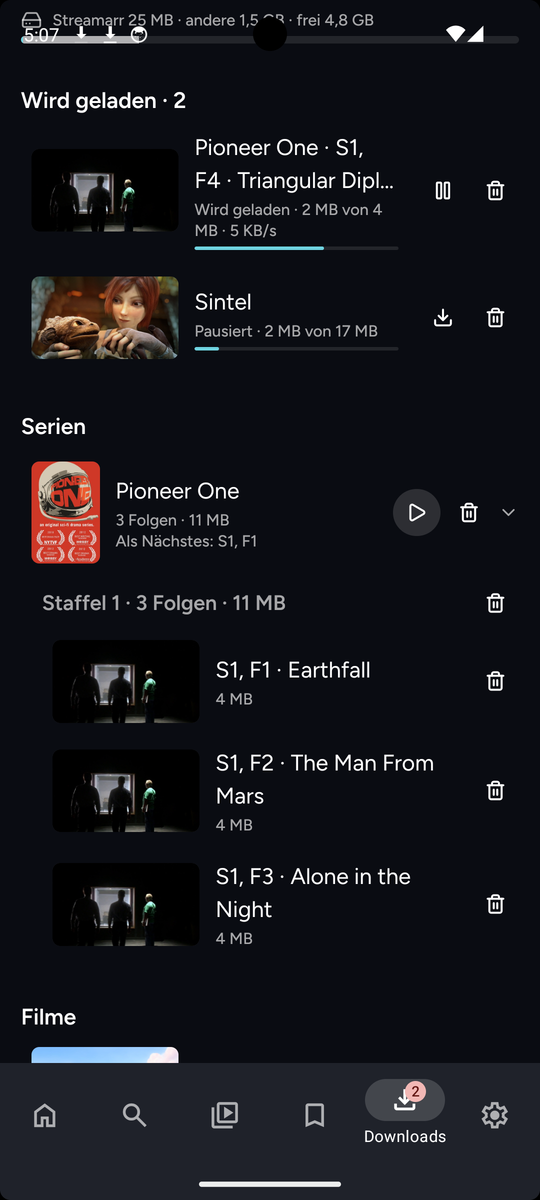
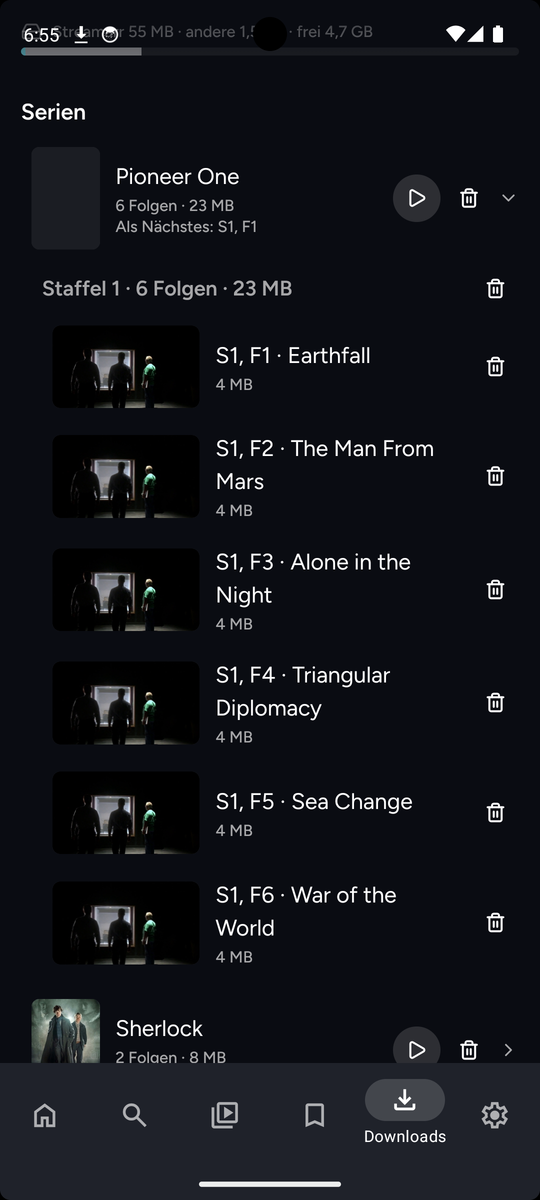
docs(client): DL-C2 nits — status bar scrim re-take, iPad removing row
phone-05b re-taken on Streamarr_Phone_DL2 with the scrim (8b67f878);
ipad-06b shows a slow removal greyed with "Wird entfernt…".

diff --git a/docs/client/JOURNAL.md b/docs/client/JOURNAL.md
@@ -188,7 +188,7 @@ Append-only. One line per task outcome; details in `journal/<TASK-ID>.md`.
 - DL-S · done · offline downloads server: candidates/season packs/similarity plan with offline playability (native or VLC direct, reused version ranking), async prepare with copy-only fallback + hard check, resumable /api/v1/offline capability (Range/ETag/If-Range, pinned transfer sessions), records + allowDownloads/limits, priority below live streams (connection share, low priority, no article cache, throttle), occurredAt, web admin, Dev World RAR pack/mislabeled/offline faults; Server 1882/1895 (13 known ffmpeg), web 329/329, live 27/27, Dev World published → journal/DL-S.md
 - DL-C1 · partial · client download core: API freeze 9fa5d2a3 (types, MMKV store per server+viewer, manager prepare→long-poll→engine→verify→complete with 410/429/403/409/disk-full/Wi-Fi/validator handling, kill-safe reconciliation), metadata+artwork snapshot, connectivity + /offline shell, DownloadsLibrary, player local mode (expo-video/VLC, local tracks, newer resume, offline up-next), app-wide progress sync with occurredAt, sign-out/remove prompt; jest 2502/2502; phase B device verification pending DL-N integration → journal/DL-C1.md
 - DL-N · done · own Expo module offline-downloads (Android UIDT job/FGS, iOS background URLSession; Range+If-Range resume, native queue, Wi-Fi only) behind src/downloads/engine, verified on phone 14, Google TV 13, Android TV 14, iPhone sim → journal/DL-N.md
-- DL-C2 · done · download sheet (episode/movie, season pack, rest similar, each yourself, fit verdicts, stream-only line), Downloads tab/rail + badge, phone Library tab, detail defaults/markers/progress, settings + offline-shell section, TV D-pad; fix round 1 (C1-09…C1-26); phase B on Android phone, Android TV, iPhone and iPad sims against Dev World 39305 (43 screenshots, 8 device bugs fixed); open: iPhone "Mehr" tab, iOS sheet footer not pinned; typecheck/lint 0, sign-in waits read as such; plan language note, held-back downloads read as on hold; DL-C1 round-1 API (locked, unknown space, per-record re-renders), offline shell → play re-checked on TV + phone; VLC versions read as playable in the sheet; DL-S round 3 merged; blocked selections without a ready mark, failed row + other version on the phone; plan 1b re-checked live, TV rest-similar re-taken; DL-N round-1 builds on all four devices (missing storage, notification Pause/link, Task-Manager stop); DL-S rounds 3+4 merged; removing state greyed in place, re-download blocked (8c37f4e4); DL-N round 2 merged; removal pipeline merged, removing e2e via the core; jest 278/2880 green; final pass: 92-shot set on phone, TV (D-pad), iPhone, iPad (docs/client/screenshots/DL-C2/final), fixes dd1afc1c (state named once), 083dfc2b (C2-09), c82f08f9+07ddb405 (C2-08 via lockOf), 23851f79 (movie title while preparing), iOS keep-bytes verified on 5410255b, merged fb/downloads f6cf1ba7, jest 293/2979 green → journal/DL-C2.md
+- DL-C2 · done · download sheet (episode/movie, season pack, rest similar, each yourself, fit verdicts, stream-only line), Downloads tab/rail + badge, phone Library tab, detail defaults/markers/progress, settings + offline-shell section, TV D-pad; fix round 1 (C1-09…C1-26); phase B on Android phone, Android TV, iPhone and iPad sims against Dev World 39305 (43 screenshots, 8 device bugs fixed); open: iPhone "Mehr" tab, iOS sheet footer not pinned; typecheck/lint 0, sign-in waits read as such; plan language note, held-back downloads read as on hold; DL-C1 round-1 API (locked, unknown space, per-record re-renders), offline shell → play re-checked on TV + phone; VLC versions read as playable in the sheet; DL-S round 3 merged; blocked selections without a ready mark, failed row + other version on the phone; plan 1b re-checked live, TV rest-similar re-taken; DL-N round-1 builds on all four devices (missing storage, notification Pause/link, Task-Manager stop); DL-S rounds 3+4 merged; removing state greyed in place, re-download blocked (8c37f4e4); DL-N round 2 merged; removal pipeline merged, removing e2e via the core; jest 278/2880 green; final pass: 92-shot set on phone, TV (D-pad), iPhone, iPad (docs/client/screenshots/DL-C2/final), fixes dd1afc1c (state named once), 083dfc2b (C2-09), c82f08f9+07ddb405 (C2-08 via lockOf), 23851f79 (movie title while preparing), iOS keep-bytes verified on 5410255b, merged fb/downloads f6cf1ba7, jest 293/2979 green; nits: Android phone status-bar scrim on Downloads, My List, Library, offline shell (8b67f878), phone-05b re-taken, iPad removing row added, jest 294/2985 → journal/DL-C2.md
 - DL-S · fix round 1 · done · all 17 verifier findings (V1-01…V1-17): revocable file access (per-download/viewer access generations, 2 s cut-off, age gate per request), security sign-out rotates file URLs (410 download_revoked, renew issues a new URL), idempotent prepares (unique key), transfers never evict playback, preparation in the download share + 1 resolve slot kept, refundable throttle, completion dedupe, preconditions, CORS, log redaction; 34 new tests fail on the pre-fix tree; Server 1933/1947 (13 known ffmpeg + 1 tunnel flake), web 329/329, live 27/27 + 16/16, Dev World re-published → journal/DL-S.md
 - DL-S · fix round 1b · done · similarity plan follows the picked version's language (same primary language or both untagged; viewer's language only as fallback with language_differs), recommendations unchanged; 4 new tests fail before; Server 1943/1957 (13 known ffmpeg + 1 tunnel load flake), live 28/28 + 16/16, Dev World re-published → journal/DL-S.md
 - DL-S · fix round 2 · done · security generation per viewer/record (preparing downloads publish revoked after a sign-out; capability answers 401 for signed-out callers), renewals serialized (download lock + write transaction + row revision: one URL for concurrent renewals, none surviving a racing sign-out), (viewer, device key, clientRef) unique index with a fixed migration, FIFO throttle with a stable bucket, background byte accounting (expiry ends transfers with a busy DB); 8 new tests fail on a48a0755; Server 1956/1970 (13 known ffmpeg + 1 load-timing, 3/3 alone), live 9/9 + 28/28 + 16/16, Dev World re-published → journal/DL-S.md

diff --git a/docs/client/journal/DL-C2.md b/docs/client/journal/DL-C2.md
@@ -527,15 +527,33 @@ matches the fb/downloads ddd27fd0 integration check.
 - 03: `ipad-03a-detail-progress-card-de|en`, `ipad-03b-downloads-running-badge-de|en`.
 - 04: `ipad-04a-detail-downloaded-season-geladen-de`, `ipad-04b-versions-on-device-first-de`.
 - 05: `ipad-05-downloads-grouped-storage-de`, `ipad-05-downloads-grouped-en`.
-- 06: `ipad-06-downloads-blocked-de`.
+- 06: `ipad-06-downloads-blocked-de`, `ipad-06b-downloads-removing-de`.
 - 07: `ipad-07a-offline-shell-de`, `ipad-07b-offline-play-local-file-de`.
 - 08: `ipad-08-settings-downloads-de`.
 
 **Not covered:**
 - `language_differs` (no Dev World fixture).
 - Android "allowed again keeps the bytes": the TV row went back to `downloading` but its bytes were not recorded.
-- iPad removing row (blocked shown).
 - iPhone/iPad offline local play starts at 0:00 where no local position exists (fresh install; expected).
+
+### Nits after the final pass (2026-11-07)
+
+- **Status bar overlap on the Android phone** (8b67f878). Scrolled content ran under the status bar on the Downloads
+  page: in `phone-05b` the storage line sat on the clock and icons. My List, the Library and the offline shell had the
+  same problem, since they only padded the top. Home and the detail page already draw the app's `StatusBarScrim`.
+  The new `StatusBarScrimLayer` (`src/shell/status-bar-scrim-layer.tsx`) lays the scrim over these four pages on
+  Android phones. Search and Settings have a native header on the phone and need nothing.
+  - iOS is left alone. The list stays the screen's first view so UIKit adopts it for the tab bar and the scroll-edge
+    effect, and a wrapper would break that (see the Home and Library comments).
+  - The large shell (tablet, TV, web) has no edge-to-edge page.
+  - Tests: `src/shell/__tests__/status-bar-scrim-layer.test.tsx` (Android phone layered; iOS phone and Android tablet
+    untouched) and a Downloads/Library case in `downloads-screen.test.tsx`.
+  - `phone-05b` re-taken on Streamarr_Phone_DL2 (build 5410255b, Dev World 079de227) in the same scroll position: the
+    clock and icons now sit on the scrim, and the dimmed line shows through, as on Home.
+- **iPad removing row** (`ipad-06b-downloads-removing-de`, build 5410255b). Sintel was throttled to 160 kbps and
+  deleted at about 0.3 MB while the engine's cancel answered `cancel_pending` for 60 s. The row stayed greyed with
+  "Wird entfernt…" and no actions, the rail lost its badge, and the row was gone once the cancel went through (52 s).
+- Checks after the fix (Node 24.14): typecheck 0, lint 0, jest **294 suites / 2985 tests**.
 
 ## Requests to DL-C1
 
